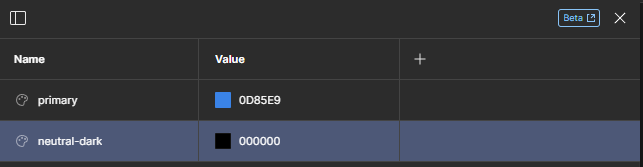
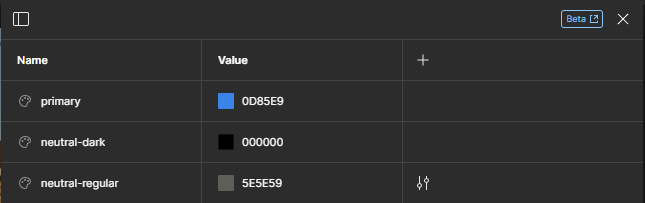
08-figma-styles.md: correction typos

diff --git a/cours/08-figma-styles.md b/cours/08-figma-styles.md
@@ -1,8 +1,8 @@
 # Les styles locaux
 
-On vient de voir que l'on peut enregistrer en mémoire des informations dans des variables que l'on peut réutiliser plus tard. Ce procédé est très pratique pour éviter de se répéter.
+On vient de voir que l'on peut enregistrer en mémoire des informations dans des variables que l'on peut réutiliser plus tard. Ce procédé est très pratique pour éviter de se répéter. 👌
 
-Dans le même esprit, il existe un autre système pour enregistrer des paramètres en mémoire : **les styles locaux**.
+Dans le même esprit, il existe un autre système pour enregistrer des paramètres en mémoire : **les styles locaux**. 📝
 
 ## Analyse : polices de caractères utilisées
 
@@ -14,9 +14,9 @@ Si l'on regarde bien, notre page contient 3 types de titres :
     <img src="../assets/08-figma-styles/Homepage-titles.webp"/>
 </p>
 
-- **Titre principal** : entouré en rouge, c'est le `<h1>` en HTML, le titre principal de la page sur laquelle on se situe.
-- **Titre de section** : entouré en vert, ce sont les `<h2>` en HTML, les titres de section de notre page.
-- **Titre de sous-section** : enfin, nous avons les titres de sous-section ou titres d'articles, les `<h3>` en HTML; ils sont ici entourés en orange.
+- **Titre principal** : entouré en rouge 🔴, c'est le `<h1>` en HTML, le titre principal de la page sur laquelle on se situe.
+- **Titre de section** : entouré en vert 🟢, ce sont les `<h2>` en HTML, les titres de section de notre page.
+- **Titre de sous-section** : enfin, nous avons les titres de sous-section ou titres d'articles, les `<h3>` en HTML; ils sont ici entourés en orange 🟠.
 
 Comme pour les variables, on voit que seul le contenu (le texte) change **mais pas leur style**. Et grâce aux `Local Styles`, nous allons pouvoir créer un style à appliquer sur nos éléments de textes pour éviter de nous répéter.
 
@@ -31,7 +31,7 @@ Avant de créer les styles de nos différents styles de police, faisons un table
 
 > 💡Le type `Paragraphes` représente le style utilisé sur le reste des textes, les blocs d'articles par exemple.
 
-Sachant cela, nous allons déjà déclarer une nouvelle variable pour la couleur utilisée.
+Sachant cela, nous allons déjà déclarer une nouvelle variable pour la couleur utilisée. 🤗
 
 ### À ton tour 🖌
 
@@ -39,7 +39,7 @@ Sachant cela, nous allons déjà déclarer une nouvelle variable pour la couleur
 
 - Fais la même chose avec la couleur utilisée pour les Paragraphes, ajoute une variable locale avec le code `#5E5E59` que tu nommeras `neutral-regular`.
 
-Tu devrais avoir ces trois couleurs dans ton tableau de variables locales ⬇ (`primary` a été déclaré dans le chapitre précédent) :
+Tu devrais avoir ces trois couleurs dans ton tableau de variables locales ⬇ (`primary` a été déclaré dans le chapitre précédent, tu peux l'ajouter si ce n'est pas fait 😉) :
 
 <p align="center">
     <img src="../assets/08-figma-styles/fonts-colors-variables.png"/>
@@ -61,7 +61,7 @@ Désormais, nous allons déclarer un style prédéfini afin d'enregistrer le tit
     <img src="../assets/08-figma-styles/create-new-style.png"/>
 </p>
 
-> ✒ Il existe énormément d'options pour définir une police de caractères. Les caractères d'imprimerie sont modulables à l'infini. Nous resterons simples et ne parlerons pas de l'infinité de possibilités qu'il existe lorsque l'on parle de police de caractères. Toutefois, si cela vous intéresse, [Google Fonts - Knowledge](https://fonts.google.com/knowledge) contient des articles afin de plonger dans ce monde intéressant.
+> ✒ Il existe énormément d'options pour définir une police de caractères. Les caractères d'imprimerie sont modulables à l'infini. Nous resterons simples et ne parlerons pas de l'infinité de possibilités qu'il existe lorsque l'on parle de police de caractères. Toutefois, si cela vous intéresse, [Google Fonts - Knowledge](https://fonts.google.com/knowledge) contient des articles afin de plonger dans ce monde intéressant. 🤿
 
 Ca y est, nous avons désormais accès à notre premier style prédéfini. 🥳 Il apparaît dans la colonne `Local Styles` du panneau d'options de notre zone de travail.
 
@@ -81,29 +81,31 @@ Un nouveau panneau d'options apparaît avec l'ajout d'un texte. Il y a des élé
     <img src="../assets/08-figma-styles/text-options-panel.png"/>
 </p>
 
-Sur la capture d'écran, nous t'avons enouré d'un cercle rouge **un carré composé de 4 points en haut à droite**. En cliquant dessus, tu vas voir apparaître les styles définis présents. Il ne te reste qu'à choisir le style `main-title` et l'appliquer au texte que l'on vient de créer.
+Sur la capture d'écran, **nous t'avons entouré d'un cercle rouge un carré composé de 4 points en haut à droite** 🔴. En cliquant dessus, tu vas voir apparaître les styles définis présents. Il ne te reste qu'à choisir le style `main-title` et l'appliquer au texte que l'on vient de créer.
 
 <p align="center">
     <img src="../assets/08-figma-styles/apply-style-on-text.gif"/>
 </p>
 
-Pour compléter, nous allons lui appliquer la couleur `neutral-dark`. Dans le panneau d'options, repère la section `Fill` puis clique sur le carré composé de 4 points, puis choisis la couleur `neutral-dark`.
+Pour compléter, nous allons lui appliquer la couleur `neutral-dark`. Dans le panneau d'options, **repère la section `Fill` puis clique sur le carré composé de 4 points**, puis choisis la couleur `neutral-dark`.
 
 <p align="center">
     <img src="../assets/08-figma-styles/apply-color-on-title.gif"/>
 </p>
 
-Pour parfaire le tout, nous allons (si besoin) modifier la dimension du bloc à main levée avec notre souris. Sélectionne le côté droit du bloc de texte et réduis-le pour que le texte soit sur deux lignes, comme sur la maquette. Si besoin, aligne le texte à gauche via l'option à cet effet dans le panneau d'options de texte.
+Pour parfaire le tout, nous allons (si besoin) modifier la dimension du bloc à main levée avec notre souris. Sélectionne le côté droit du bloc de texte et réduis-le pour que le texte soit sur deux lignes, comme sur la maquette.
+
+_Si besoin, aligne le texte à gauche via l'option à cet effet dans le panneau d'options de texte._
 
 <p align="center">
     <img src="../assets/08-figma-styles/reduce-title-block.gif"/>
 </p>
 
-Ca y est ! Notre titre principal a un style et une couleur prédéfinie. 🥳
+**Ca y est ! Notre titre principal a un style et une couleur prédéfinie. 🥳**
 
 Si, dans un avenir plus ou moins proche, on souhaite changer les paramètres ou propriétés d'un élément de ce style, nous n'aurons pas besoin de repasser dessus directement.
 
-On s'enlève un temps fou, on est modulables, évolutifs, réactifs. On est géniaux en somme ! 🤩
+On s'enlève un temps fou, on est **modulables, évolutifs, réactifs**. On est géniaux en somme ! 🤩
 
 Et tu as remarqué ? Cela nous fait aussi une belle classe CSS que notre développeur pourra utiliser. Traduisons les paramètres pour définir notre titre principal en CSS :
 
@@ -122,6 +124,6 @@ Magique ! 🪄
 
 [◀ Figma - Les Variables](./07-figma-variables.md)
 
-[Figma - Composants ▶]()
+[Figma - Composants ▶](./09-figma-composants.md)
 
 [Retour à l'accueil 📍](../README.md)

diff --git a/cours/07-figma-variables.md b/cours/07-figma-variables.md
@@ -107,7 +107,7 @@ Trois des formes sont liées à notre variable, cela permet de changer instantan
 
 > 💡 Dans les variables de Figma, tu peux stocker un nombre, du texte et même des booléens.
 
-[Voici une vidéo de @DesignWithArash](https://youtu.be/fn4rP20U2UM?si=cJdfLh7i6d2DuyeB), un Youtuber spécialisé sur Figma qui t'expliqueras encore énormément de choses avec les variables (dark mode, traduction d'une maquette dans différentes langues, ...). C'est très intéressant mais cela demande aussi à avoir parfois un accès "pro" (payant💲) à Figma.
+[Voici une vidéo de @DesignWithArash](https://youtu.be/fn4rP20U2UM?si=cJdfLh7i6d2DuyeB), un Youtubeur spécialisé sur Figma qui t'expliqueras encore énormément de choses avec les variables (dark mode, traduction d'une maquette dans différentes langues, ...). C'est très intéressant mais cela demande aussi à avoir parfois un accès "pro" (payant💲) à Figma.
 
 ---
 
